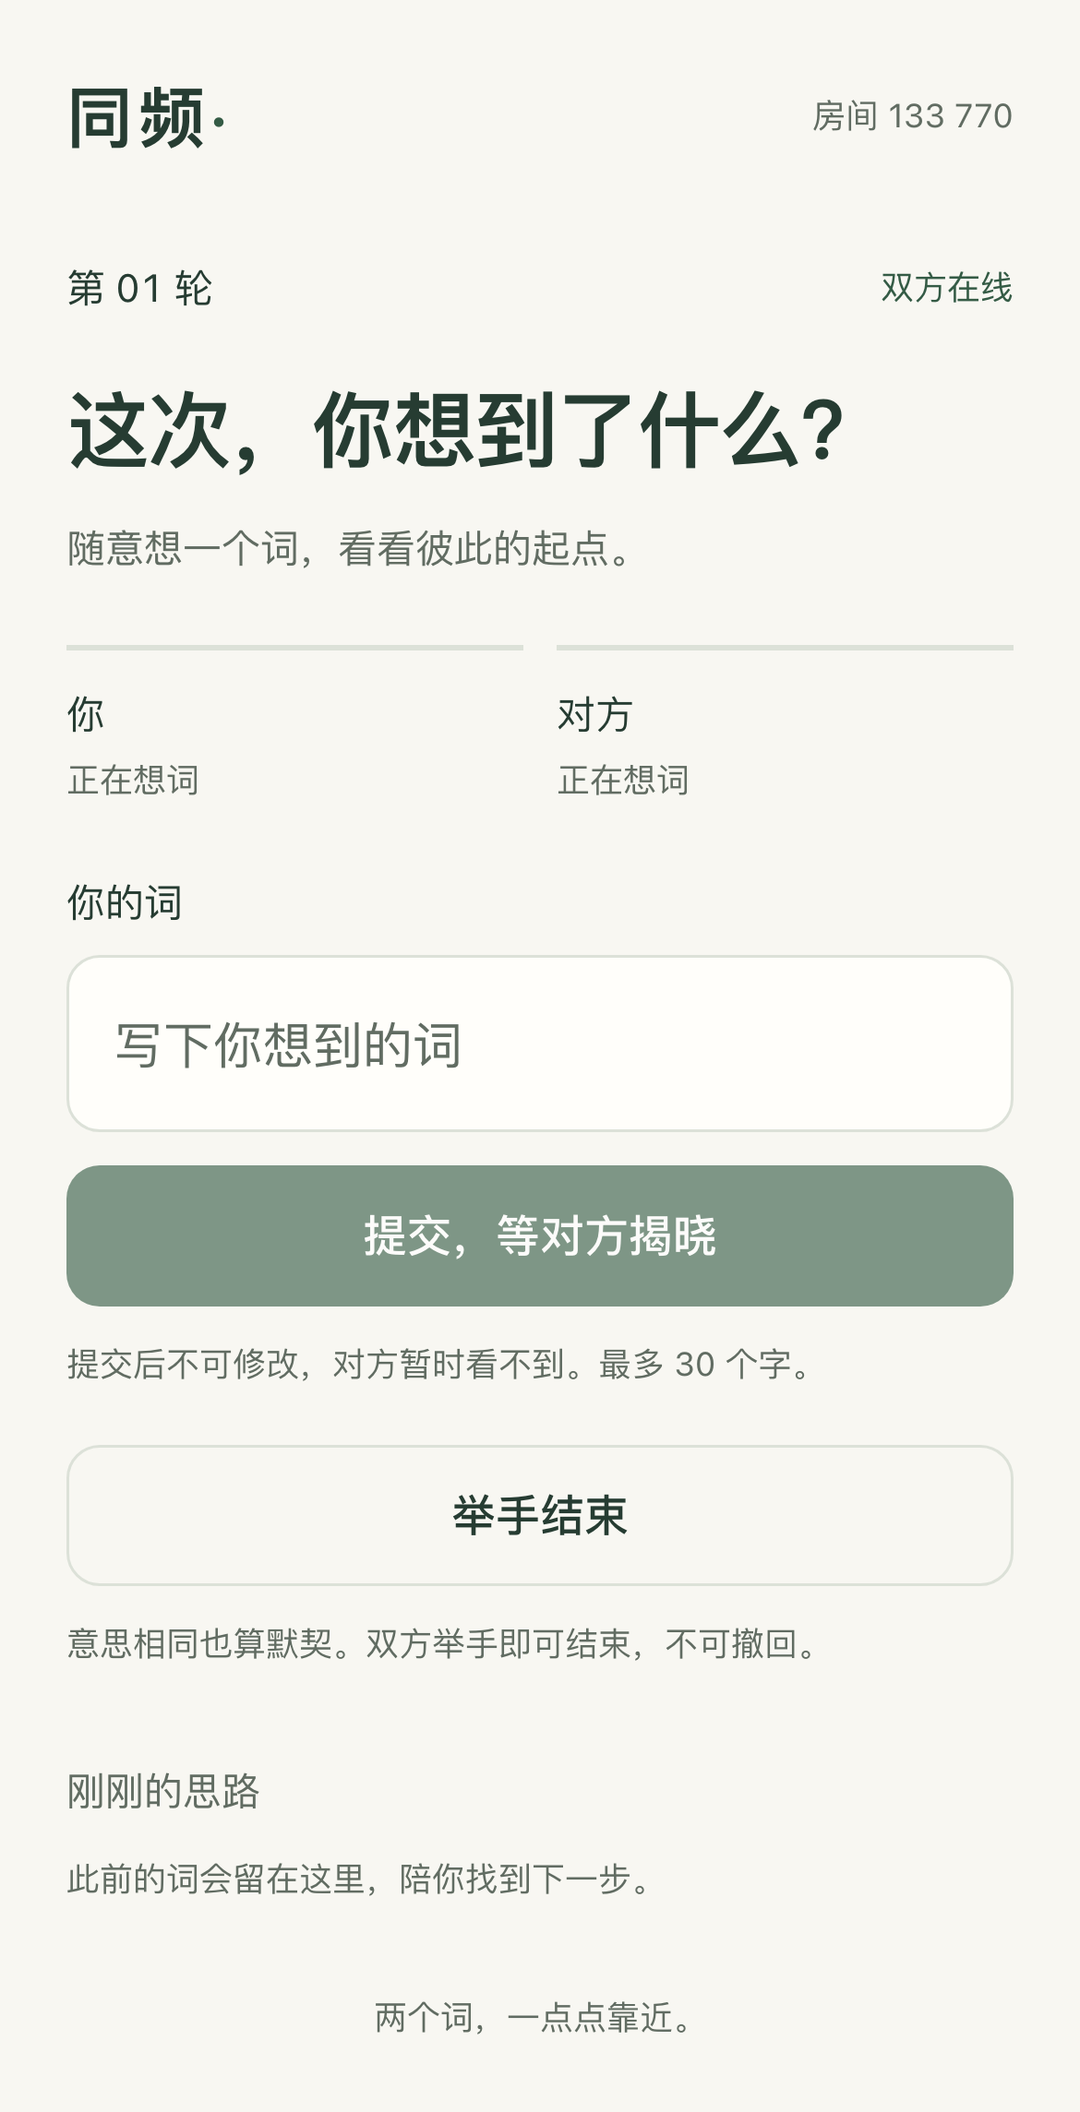
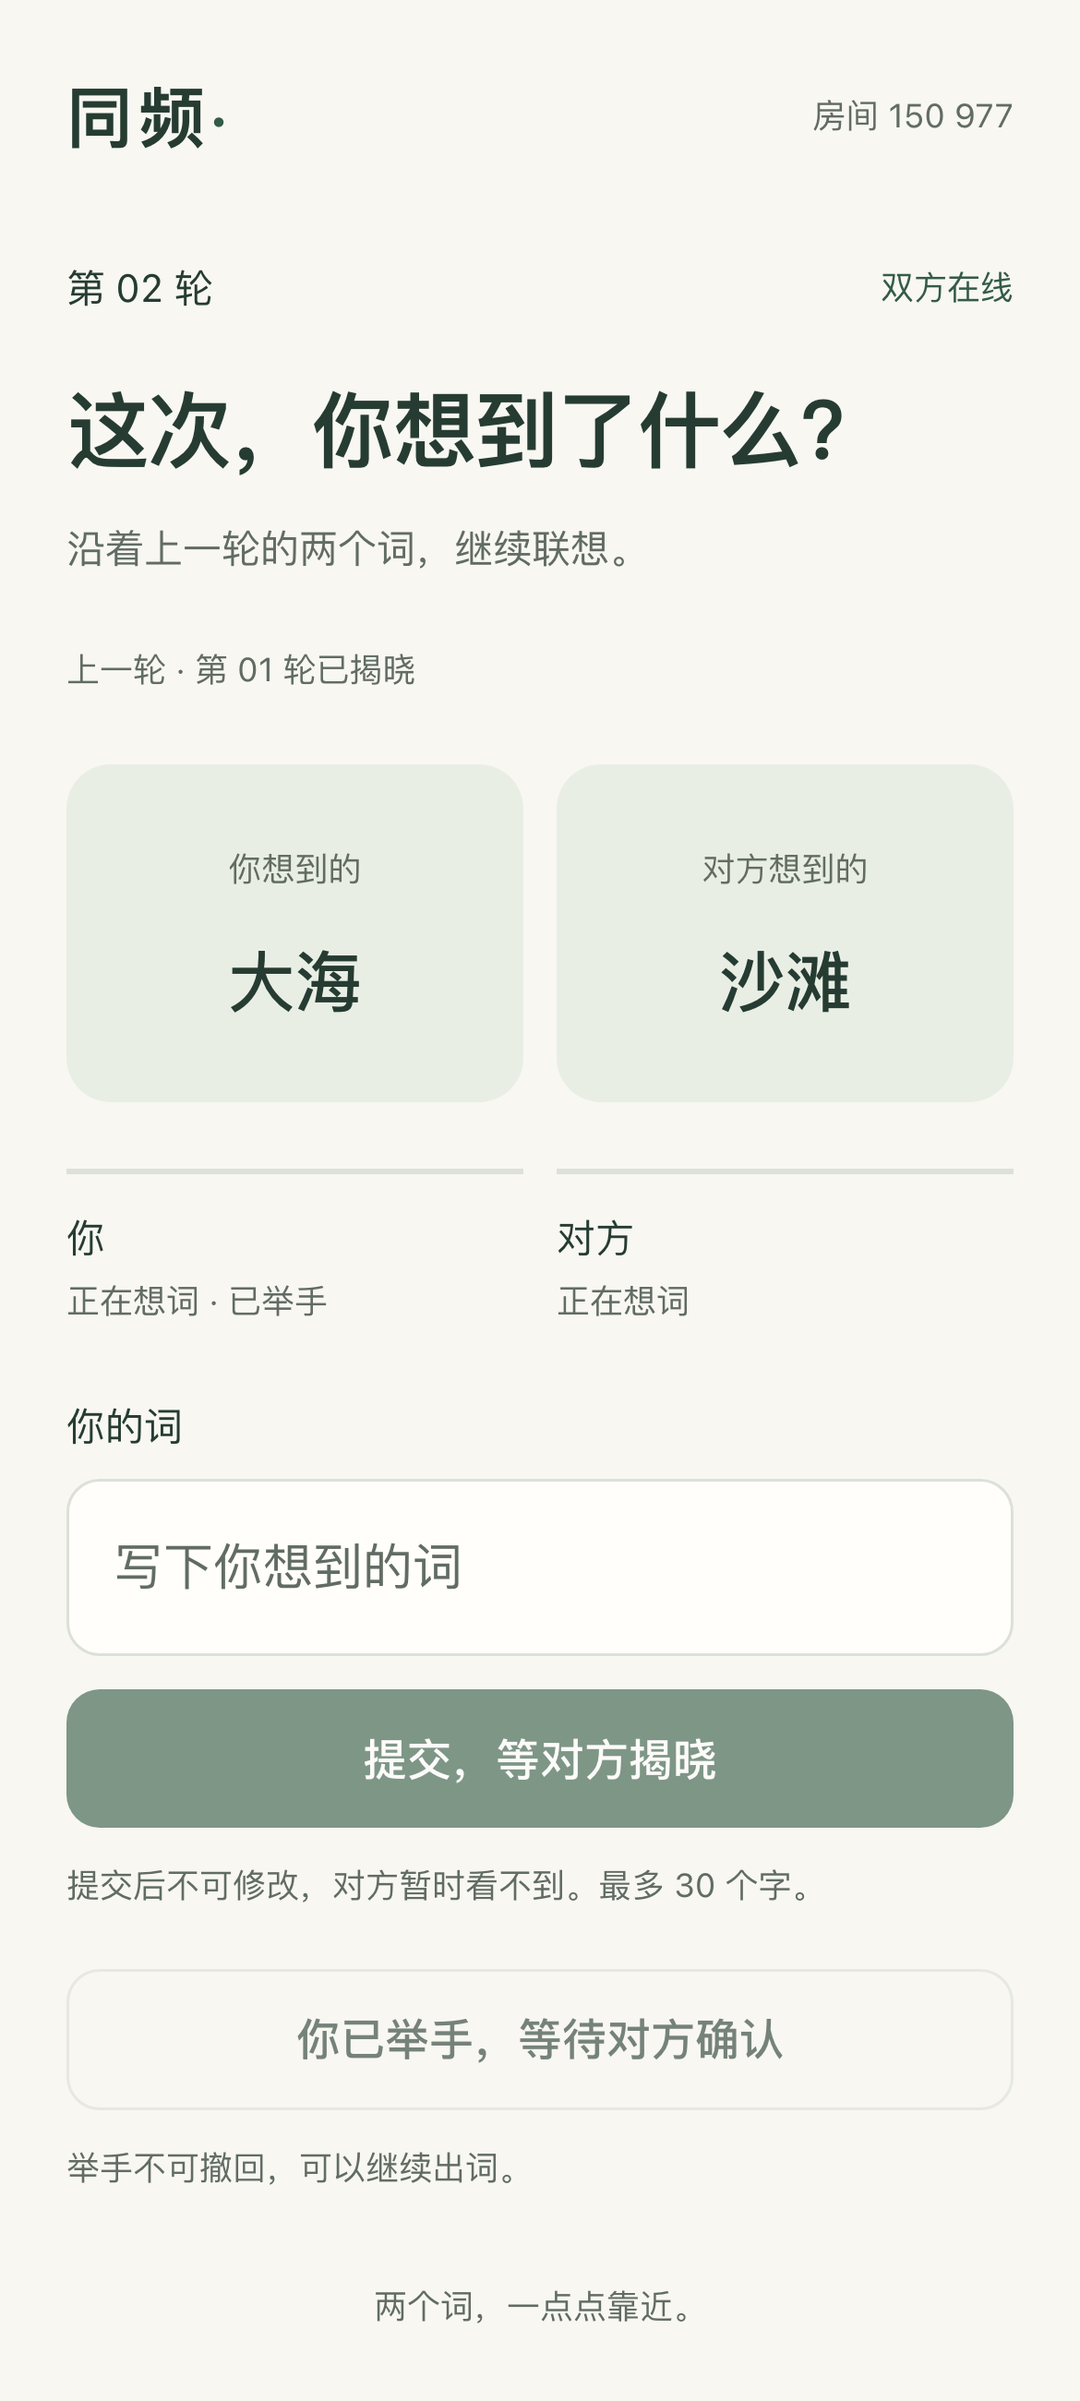
fix: advance mismatched rounds automatically (#1)

diff --git a/tests/server.integration.test.ts b/tests/server.integration.test.ts
@@ -117,7 +117,7 @@ describe('双人对词真实 SQLite / Socket.IO 联机', () => {
   async function reveal(host: Player, guest: Player) {
     await play(host, 'submit', '大海');
     await play(guest, 'submit', '沙滩');
-    await waitFor(host, (snapshot) => snapshot.phase === 'revealed');
+    await waitFor(host, (snapshot) => snapshot.phase === 'playing' && snapshot.roundNumber === 2);
   }
 
   it('第二人加入才开始，并拒绝第三人占用同一房间', async () => {
@@ -140,7 +140,7 @@ describe('双人对词真实 SQLite / Socket.IO 联机', () => {
     expect(guest.received.every((snapshot) => !JSON.stringify(snapshot).includes('海风暗号'))).toBe(true);
     expect(guest.snapshot.history).toEqual([]);
     await play(guest, 'submit', '海边的风');
-    expect(guest.snapshot).toMatchObject({ phase: 'revealed', endReason: null });
+    expect(guest.snapshot).toMatchObject({ phase: 'playing', roundNumber: 2, endReason: null });
     expect(guest.snapshot.history).toEqual([{ roundNumber: 1, words: ['海风暗号', '海边的风'] }]);
     expect(JSON.stringify(guest.snapshot)).not.toContain(host.credentials.token);
   });
@@ -171,17 +171,17 @@ describe('双人对词真实 SQLite / Socket.IO 联机', () => {
     expect(guest.snapshot.history[0]?.words).toEqual(['原词', '另一个词']);
   });
 
-  it('双方都确认才进入下一轮，单方举手跨轮保留且无法撤回', async () => {
+  it('不同词语揭晓后自动进入下一轮，单方举手跨轮保留且无法撤回', async () => {
     const { host, guest } = await pair();
     await play(host, 'raise');
     await reveal(host, guest);
-    await play(host, 'next');
-    expect(host.snapshot).toMatchObject({ phase: 'revealed', roundNumber: 1 });
-    expect(host.snapshot.self.nextReady).toBe(true);
-    await play(guest, 'next');
     const snapshot = await waitFor(host, (value) => value.phase === 'playing' && value.roundNumber === 2);
     expect(snapshot.self).toMatchObject({ raised: true, nextReady: false, submitted: false, word: null });
     expect(snapshot.opponent?.submitted).toBe(false);
+    expect(snapshot.history).toEqual([{ roundNumber: 1, words: ['大海', '沙滩'] }]);
+    // Legacy confirmation requests must never skip a fresh round.
+    expect((await request(host.socket, action(host, 'next'))).ok).toBe(false);
+    expect((await request(guest.socket, action(guest, 'next'))).ok).toBe(false);
     const duplicateRaise = await request(host.socket, action(host, 'raise'));
     if (duplicateRaise.ok) expect(duplicateRaise.snapshot.self.raised).toBe(true);
     const resumed = requireSuccess(await request(host.socket, { action: 'resume', ...host.credentials }));
@@ -199,6 +199,33 @@ describe('双人对词真实 SQLite / Socket.IO 联机', () => {
     expect((await request(guest.socket, action(guest, 'submit', '太迟了'))).ok).toBe(false);
   });
 
+  it('已提交的一方离线时仍自动进入下一轮，重连恢复上一轮揭晓与新输入状态', async () => {
+    const { host, guest } = await pair();
+    await play(host, 'submit', '大海');
+    host.socket.disconnect();
+    await waitFor(guest, value => value.opponent?.online === false);
+    await play(guest, 'submit', '沙滩');
+    expect(guest.snapshot).toMatchObject({ phase: 'playing', roundNumber: 2 });
+    expect(guest.snapshot.self).toMatchObject({ submitted: false, word: null });
+    const restored = await enter({ action: 'resume', ...host.credentials });
+    expect(restored.snapshot).toMatchObject({ phase: 'playing', roundNumber: 2 });
+    expect(restored.snapshot.self).toMatchObject({ submitted: false, word: null });
+    expect(restored.snapshot.history).toEqual([{ roundNumber: 1, words: ['大海', '沙滩'] }]);
+  });
+
+  it('自动续轮后到达的同局旧轮举手仍生效，但未来轮举手和旧轮词语不会生效', async () => {
+    const { host, guest } = await pair();
+    await play(host, 'submit', '大海');
+    const delayedRaise = action(host, 'raise');
+    const delayedWord = action(host, 'submit', '迟到的词');
+    await play(guest, 'submit', '沙滩');
+    const raised = requireSuccess(await request(host.socket, delayedRaise));
+    expect(raised.snapshot).toMatchObject({ phase: 'playing', roundNumber: 2, self: { raised: true, submitted: false } });
+    const futureRaise = { ...delayedRaise, roundNumber: 3 };
+    expect((await request(guest.socket, futureRaise)).ok).toBe(false);
+    expect((await request(host.socket, delayedWord)).ok).toBe(false);
+  });
+
   it('双方揭晓后举手结束，保留已揭晓的历史词语', async () => {
     const { host, guest } = await pair();
     await reveal(host, guest);
@@ -212,8 +239,6 @@ describe('双人对词真实 SQLite / Socket.IO 联机', () => {
     const { host, guest } = await pair();
     const stale = action(host, 'submit', '迟到的词');
     await reveal(host, guest);
-    await play(host, 'next');
-    await play(guest, 'next');
     await waitFor(host, (snapshot) => snapshot.roundNumber === 2);
     expect((await request(host.socket, stale)).ok).toBe(false);
     const resumed = requireSuccess(await request(host.socket, { action: 'resume', ...host.credentials }));

diff --git a/apps/server/src/game.ts b/apps/server/src/game.ts
@@ -82,6 +82,9 @@ export class GameService {
       const digest = Buffer.from(hash(token), 'hex');
       const player = this.players(room.id).find(p => timingSafeEqual(Buffer.from(p.token_hash, 'hex'), digest));
       if (!player) throw new GameError('INVALID_TOKEN', '无法恢复你的玩家身份，请使用原来的浏览器。');
+      // Existing rooms may still be waiting for the former manual confirmation.
+      // Resume already runs in a transaction, so the round advances only once.
+      if (room.phase === 'revealed') this.advanceRound(room);
       this.touch(room.id);
       return { roomId: room.id, roomCode: code, seat: player.seat };
     });
@@ -90,13 +93,17 @@ export class GameService {
   apply(identity: Identity, command: GameCommand): void {
     this.db.transaction(() => {
       const room = this.getRoom(identity.roomId);
-      if (command.gameNumber !== room.game_number || command.roundNumber !== room.round_number) throw new GameError('STALE_COMMAND', '游戏进度已更新，请查看最新状态后再操作。');
+      // Raising is irreversible for the whole game, even if another player's
+      // submission advances the round before this request reaches the server.
+      const validRound = command.roundNumber === room.round_number
+        || (command.action === 'raise' && command.roundNumber < room.round_number);
+      if (command.gameNumber !== room.game_number || !validRound) throw new GameError('STALE_COMMAND', '游戏进度已更新，请查看最新状态后再操作。');
       const players = this.players(room.id);
       const self = players.find(p => p.seat === identity.seat);
       if (!self) throw new GameError('UNAUTHORIZED', '玩家身份失效，请重新连接。');
       if (command.action === 'submit') this.submit(room, self, command.word);
       else if (command.action === 'raise') this.raise(room, self);
-      else if (command.action === 'next') this.next(room, self);
+      else if (command.action === 'next') throw new GameError('AUTO_ADVANCE', '已自动进入下一轮，无需再次确认。');
       else this.again(room, self);
       this.touch(room.id);
     });
@@ -118,7 +125,7 @@ export class GameService {
     if (updated.word_one !== null && updated.word_two !== null) {
       this.db.run('UPDATE rounds SET is_revealed = 1, updated_at = ? WHERE id = ?', this.now(), round.id);
       if (updated.word_one === updated.word_two) this.end(room, 'matched');
-      else this.db.run("UPDATE rooms SET phase = 'revealed' WHERE id = ?", room.id);
+      else this.advanceRound(room);
     }
   }
   private raise(room: RoomRow, self: PlayerRow): void {
@@ -130,14 +137,10 @@ export class GameService {
   private end(room: RoomRow, reason: 'matched' | 'consensus'): void {
     this.db.run("UPDATE rooms SET phase = 'ended', end_reason = ? WHERE id = ?", reason, room.id);
   }
-  private next(room: RoomRow, self: PlayerRow): void {
-    if (room.phase !== 'revealed') throw new GameError('INVALID_PHASE', '双方揭晓后才能进入下一轮。');
-    this.db.run('UPDATE players SET is_next_ready = 1, updated_at = ? WHERE id = ?', this.now(), self.id);
-    if (this.players(room.id).every(p => p.is_next_ready === 1)) {
-      this.insertRound(room.id, room.game_number, room.round_number + 1);
-      this.db.run("UPDATE rooms SET phase = 'playing', round_number = round_number + 1 WHERE id = ?", room.id);
-      this.db.run('UPDATE players SET is_next_ready = 0, updated_at = ? WHERE rooms_id = ?', this.now(), room.id);
-    }
+  private advanceRound(room: RoomRow): void {
+    this.insertRound(room.id, room.game_number, room.round_number + 1);
+    this.db.run("UPDATE rooms SET phase = 'playing', round_number = round_number + 1 WHERE id = ?", room.id);
+    this.db.run('UPDATE players SET is_next_ready = 0, updated_at = ? WHERE rooms_id = ?', this.now(), room.id);
   }
   private again(room: RoomRow, self: PlayerRow): void {
     if (room.phase !== 'ended') throw new GameError('INVALID_PHASE', '这一局结束后才能再来一局。');

diff --git a/apps/web/src/components/GameScreen.vue b/apps/web/src/components/GameScreen.vue
@@ -7,23 +7,22 @@ import WordInput from './WordInput.vue';
 import WordPair from './WordPair.vue';
 const props = defineProps<{ room: RoomSnapshot; disabled: boolean }>();
 defineEmits<{ action: [action: GameAction, word?: string] }>();
-const currentRound = computed(() => props.room.history.find(round => round.roundNumber === props.room.roundNumber));
-const previousRounds = computed(() => props.room.history.filter(round => round.roundNumber !== props.room.roundNumber));
+const lastRound = computed(() => props.room.history.at(-1));
+const previousRounds = computed(() => props.room.history.slice(0, -1));
 </script>
 
 <template>
   <section>
     <div class="game-round"><span class="game-round__label">第 {{ String(room.roundNumber).padStart(2, '0') }} 轮</span><span class="game-round__online">{{ room.opponent?.online ? '双方在线' : '对方离线，等待重连' }}</span></div>
-    <h1 class="screen-heading" tabindex="-1">{{ room.phase === 'revealed' ? '离同频，又近了一点。' : '这次，你想到了什么？' }}</h1>
-    <p class="screen-subtitle">{{ room.phase === 'revealed' ? '词不一样，意思也许已经很接近。' : room.roundNumber === 1 ? '随意想一个词，看看彼此的起点。' : '沿着上一轮的两个词，继续联想。' }}</p>
+    <h1 class="screen-heading" tabindex="-1">这次，你想到了什么？</h1>
+    <p class="screen-subtitle">{{ room.roundNumber === 1 ? '随意想一个词，看看彼此的起点。' : '沿着上一轮的两个词，继续联想。' }}</p>
+    <div v-if="lastRound" class="game-previous" role="status">
+      <p class="form-hint">上一轮 · 第 {{ String(lastRound.roundNumber).padStart(2, '0') }} 轮已揭晓</p>
+      <WordPair :words="lastRound.words" :seat="room.self.seat" label="上一轮揭晓的词语" />
+    </div>
     <div v-if="room.opponent?.raised && !room.self.raised" class="game-callout" role="status">对方举手了，觉得已经同频。<small class="game-callout__detail">你也认同的话，点击下方举手结束。</small></div>
     <PlayerStatus :self="room.self" :opponent="room.opponent" />
-    <template v-if="room.phase === 'revealed' && currentRound">
-      <WordPair :words="currentRound.words" :seat="room.self.seat" />
-      <button class="action-button" :disabled="disabled || room.self.nextReady" @click="$emit('action', 'next')">{{ room.self.nextReady ? '已准备，等待对方' : '继续下一轮' }}</button>
-      <p class="form-hint" role="status">{{ room.opponent?.nextReady ? '对方已准备好，等你继续。' : '双方都准备好后，再进入下一轮。' }}</p>
-    </template>
-    <div v-else-if="room.self.submitted" class="game-entry" role="status">
+    <div v-if="room.self.submitted" class="game-entry" role="status">
       <p class="game-entry__label">你提交的词</p><p class="game-entry__word">{{ room.self.word }}</p><p class="form-hint">等待对方提交，随后一起揭晓。</p>
     </div>
     <WordInput v-else :key="`${room.gameNumber}-${room.roundNumber}`" :disabled="disabled" @submit="$emit('action', 'submit', $event)" />
@@ -31,7 +30,7 @@ const previousRounds = computed(() => props.room.history.filter(round => round.r
       <button class="action-button action-button--secondary" :disabled="disabled || room.self.raised" @click="$emit('action', 'raise')">{{ room.self.raised ? '你已举手，等待对方确认' : room.opponent?.raised ? '举手结束 · 我也认同' : '举手结束' }}</button>
       <p class="form-hint">{{ room.self.raised ? '举手不可撤回，可以继续出词。' : '意思相同也算默契。双方举手即可结束，不可撤回。' }}</p>
     </div>
-    <WordHistory :rounds="previousRounds" :seat="room.self.seat" />
+    <WordHistory v-if="previousRounds.length || !lastRound" :rounds="previousRounds" :seat="room.self.seat" />
   </section>
 </template>
 

diff --git a/scripts/check-sql.ts b/scripts/check-sql.ts
@@ -18,7 +18,6 @@ try {
     for (let round = 1; round <= 20; round++) {
       for (const [identity, action, word] of [
         [host.identity, 'submit', '夏天'], [guest.identity, 'submit', '海边'],
-        [host.identity, 'next', undefined], [guest.identity, 'next', undefined],
       ] as const) {
         const start = performance.now();
         service.apply(identity, { action, gameNumber: 1, roundNumber: round, ...(word ? { word } : {}) });
@@ -43,5 +42,5 @@ try {
   const cleaned = service.cleanup();
   const cleanupMs = performance.now() - start;
   latencies.sort((a, b) => a - b);
-  process.stdout.write(JSON.stringify({ environment: { node: process.version, platform: process.platform, arch: process.arch }, workload: '100 rooms × 20 revealed rounds; 8000 apply+one-view-snapshot calls on local temporary SQLite WAL; excludes networking', counts, samples: latencies.length, p50Ms: latencies[Math.floor(latencies.length * .5)], p95Ms: latencies[Math.floor(latencies.length * .95)], maxMs: latencies.at(-1), checkpointedDatabaseBytes: bytes, cleanup: { rooms: cleaned.length, milliseconds: cleanupMs }, executionPlans, integrity: db.connection.pragma('integrity_check') }, null, 2) + '\n');
+  process.stdout.write(JSON.stringify({ environment: { node: process.version, platform: process.platform, arch: process.arch }, workload: '100 rooms × 20 automatically advanced rounds; 4000 apply+one-view-snapshot calls on local temporary SQLite WAL; excludes networking', counts, samples: latencies.length, p50Ms: latencies[Math.floor(latencies.length * .5)], p95Ms: latencies[Math.floor(latencies.length * .95)], maxMs: latencies.at(-1), checkpointedDatabaseBytes: bytes, cleanup: { rooms: cleaned.length, milliseconds: cleanupMs }, executionPlans, integrity: db.connection.pragma('integrity_check') }, null, 2) + '\n');
 } finally { db.close(); rmSync(directory, { recursive: true, force: true }); }

diff --git a/tests/sqlite.lifecycle.test.ts b/tests/sqlite.lifecycle.test.ts
@@ -61,6 +61,24 @@ describe('SQLite 房间存储与过期生命周期', () => {
     expect(service.cleanup()).toHaveLength(1);
     expect(service.snapshot(active.identity, () => true).phase).toBe('waiting');
   });
+
+  it('旧版停在揭晓页的房间在合法重连后自动续轮，双方重连只前进一次且保留举手', () => {
+    const host = service.create();
+    const guest = service.join(host.credentials.roomCode);
+    // Reproduce persisted state from the former two-confirmation flow.
+    db.run("UPDATE rounds SET word_one = '大海', word_two = '沙滩', is_revealed = 1 WHERE rooms_id = ?", host.identity.roomId);
+    db.run("UPDATE rooms SET phase = 'revealed' WHERE id = ?", host.identity.roomId);
+    db.run('UPDATE players SET is_raised = 1, is_next_ready = 1 WHERE rooms_id = ? AND seat = 1', host.identity.roomId);
+    expect(() => service.resume(host.credentials.roomCode, 'wrong-token')).toThrow();
+    expect(service.snapshot(host.identity, () => false).roundNumber).toBe(1);
+    const restoredHost = service.resume(host.credentials.roomCode, host.credentials.token);
+    const first = service.snapshot(restoredHost, () => true);
+    expect(first).toMatchObject({ phase: 'playing', roundNumber: 2, history: [{ roundNumber: 1, words: ['大海', '沙滩'] }] });
+    expect(first.self).toMatchObject({ raised: true, nextReady: false, submitted: false });
+    const restoredGuest = service.resume(guest.credentials.roomCode, guest.credentials.token);
+    expect(service.snapshot(restoredGuest, () => true).roundNumber).toBe(2);
+    expect(db.one<{ count: number }>('SELECT count(*) AS count FROM rounds WHERE rooms_id = ?', host.identity.roomId)?.count).toBe(2);
+  });
 });
 
 it('已有无 revision 字段的 SQLite 房间可幂等升级，保留游戏数据与时间戳', async () => {

diff --git a/apps/web/src/components/WordPair.vue b/apps/web/src/components/WordPair.vue
@@ -1,10 +1,10 @@
 <script setup lang="ts">
 import type { Seat } from '@tongpin/shared';
-defineProps<{ words: [string, string]; seat: Seat }>();
+withDefaults(defineProps<{ words: [string, string]; seat: Seat; label?: string }>(), { label: '本轮揭晓的词语' });
 </script>
 
 <template>
-  <div class="word-pair" aria-label="本轮揭晓的词语">
+  <div class="word-pair" :aria-label="label">
     <div class="word-pair__item"><span class="app-caption">你想到的</span><strong class="word-pair__word">{{ words[seat - 1] }}</strong></div>
     <div class="word-pair__item"><span class="app-caption">对方想到的</span><strong class="word-pair__word">{{ words[seat === 1 ? 1 : 0] }}</strong></div>
   </div>

diff --git a/packages/shared/src/index.ts b/packages/shared/src/index.ts
@@ -1,3 +1,4 @@
+/** 'revealed' is retained for rooms created before automatic advancement. */
 export type Phase = 'waiting' | 'playing' | 'revealed' | 'ended';
 export type EndReason = 'matched' | 'consensus' | null;
 export type Seat = 1 | 2;
@@ -28,6 +29,7 @@ export interface RoomSnapshot {
   history: RoundView[];
 }
 export interface Credentials { roomCode: string; token: string }
+/** 'next' is a legacy command: the server now advances mismatched rounds itself. */
 export type GameAction = 'submit' | 'next' | 'raise' | 'again';
 export type Command =
   | { action: 'create' }

diff --git a/README.md b/README.md
@@ -20,7 +20,7 @@
 
 1. 一人创建房间，另一人通过邀请链接或六位房间码加入。
 2. 每轮各自输入一个词。提交后不能修改，双方都提交后才同时揭晓。
-3. 文字完全相同，自动结束；不同则双方点击继续，进入下一轮。
+3. 文字完全相同，自动结束；不同则自动进入下一轮，上一轮词语保留在输入框上方供参考，无需再次点击确认。
 4. 意思相同也可以双方各自点击「举手结束」。举手不可撤回，单方举手后仍可以继续对词。
 5. 结束后查看记录，双方点击「再来一局」重新开始。
 
